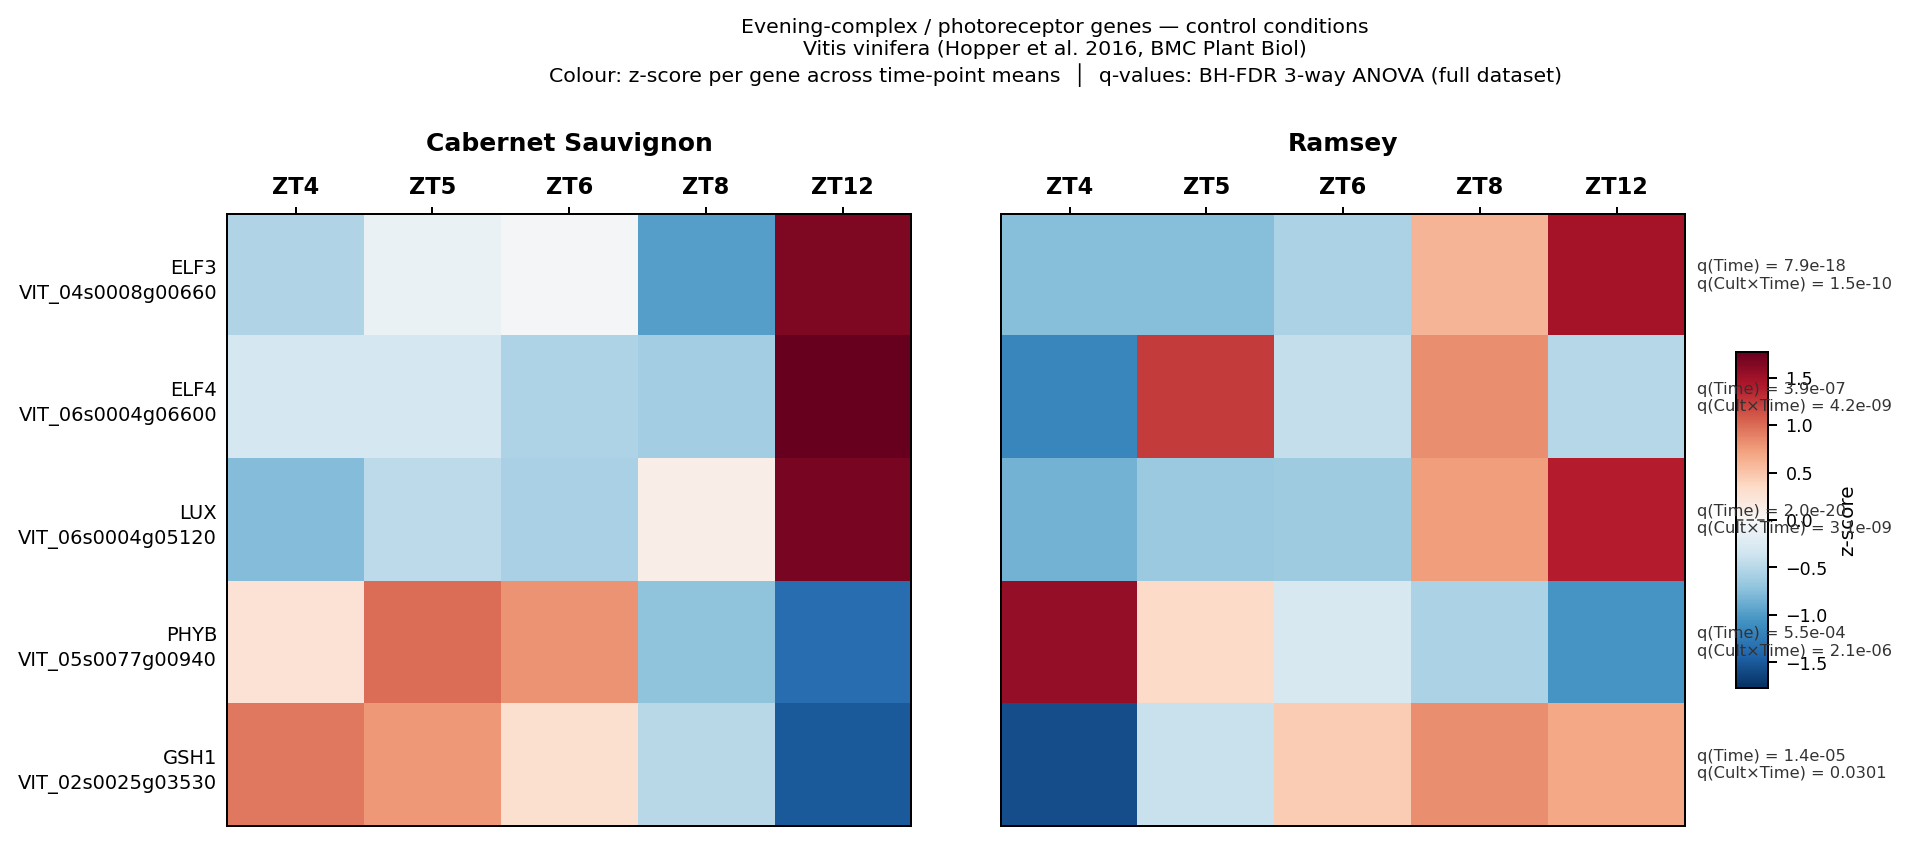
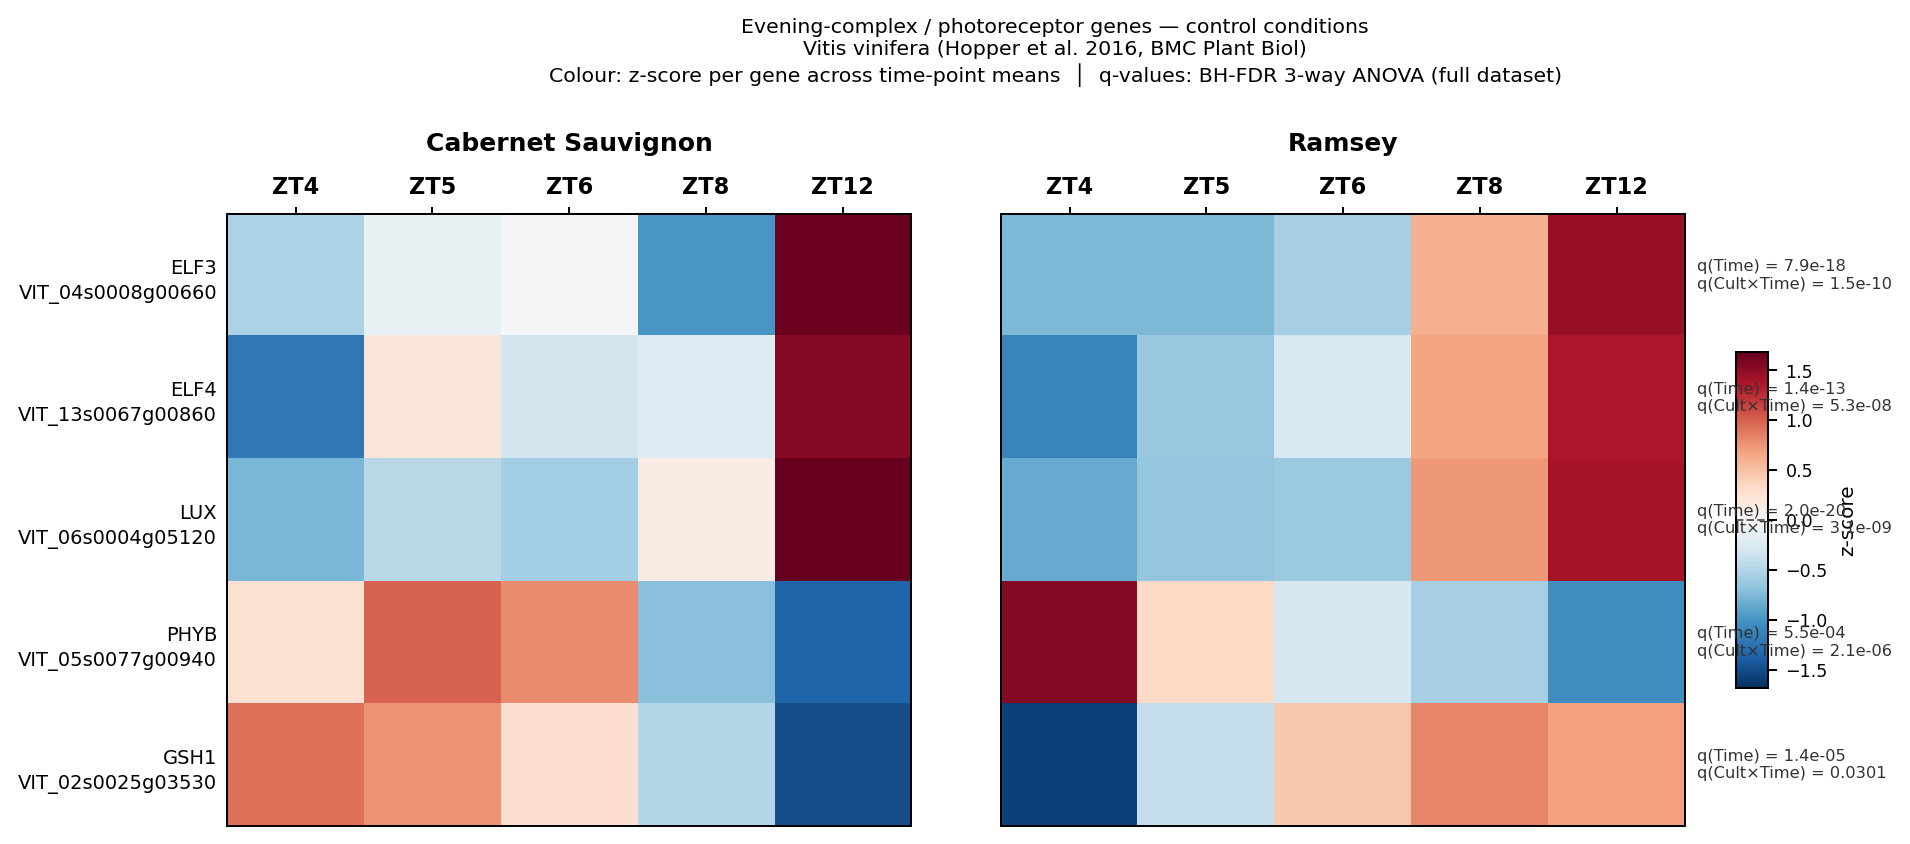
Update ELF4 to VIT_13s0067g00860 in Cab+Ramsey ZT heatmap
Replaces VIT_06s0004g06600 with the correct ELF4 locus VIT_13s0067g00860.

https://claude.ai/code/session_01YcHxToSPSCaMBM7XacLiuc

diff --git a/heatmap_Cvi_ZT_ELF_LUX.py b/heatmap_Cvi_ZT_ELF_LUX.py
@@ -5,7 +5,7 @@ Evening-complex / photoreceptor genes — both Cabernet Sauvignon and Ramsey con
 
 Genes (VIT ID, common name):
   VIT_04s0008g00660  ELF3
-  VIT_06s0004g06600  ELF4
+  VIT_13s0067g00860  ELF4
   VIT_06s0004g05120  LUX
   VIT_05s0077g00940  PHYB
   VIT_02s0025g03530  GSH1
@@ -32,10 +32,10 @@ GENES = [
          Cab=[12.8277, 12.8714, 12.4261, 13.6608, 12.6355],
          Ram=[12.2060, 12.3333, 13.0446, 13.5813, 12.2062],
          q_time=7.88e-18, q_culttime=1.50e-10),
-    dict(vit='VIT_06s0004g06600', name='ELF4',
-         Cab=[ 5.5653,  5.4036,  5.3573,  6.9768,  5.5619],
-         Ram=[ 6.8099,  6.6157,  6.7612,  6.6056,  6.5294],
-         q_time=3.86e-7,  q_culttime=4.21e-9),
+    dict(vit='VIT_13s0067g00860', name='ELF4',
+         Cab=[12.6977, 12.3029, 12.3711, 13.7387, 11.5924],
+         Ram=[11.1444, 11.5999, 12.7753, 13.6586, 10.5529],
+         q_time=1.41e-13, q_culttime=5.28e-8),
     dict(vit='VIT_06s0004g05120', name='LUX',
          Cab=[10.6451, 10.4880, 11.5516, 13.9656, 10.1786],
          Ram=[ 9.9162,  9.9633, 12.5525, 13.7847,  9.5528],
